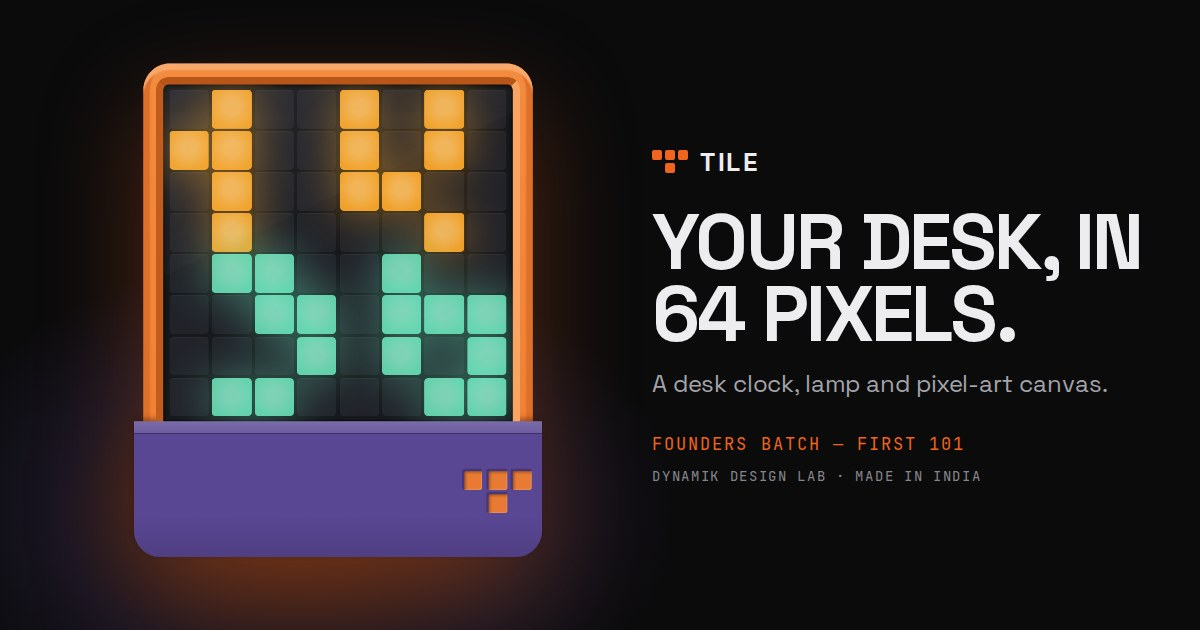
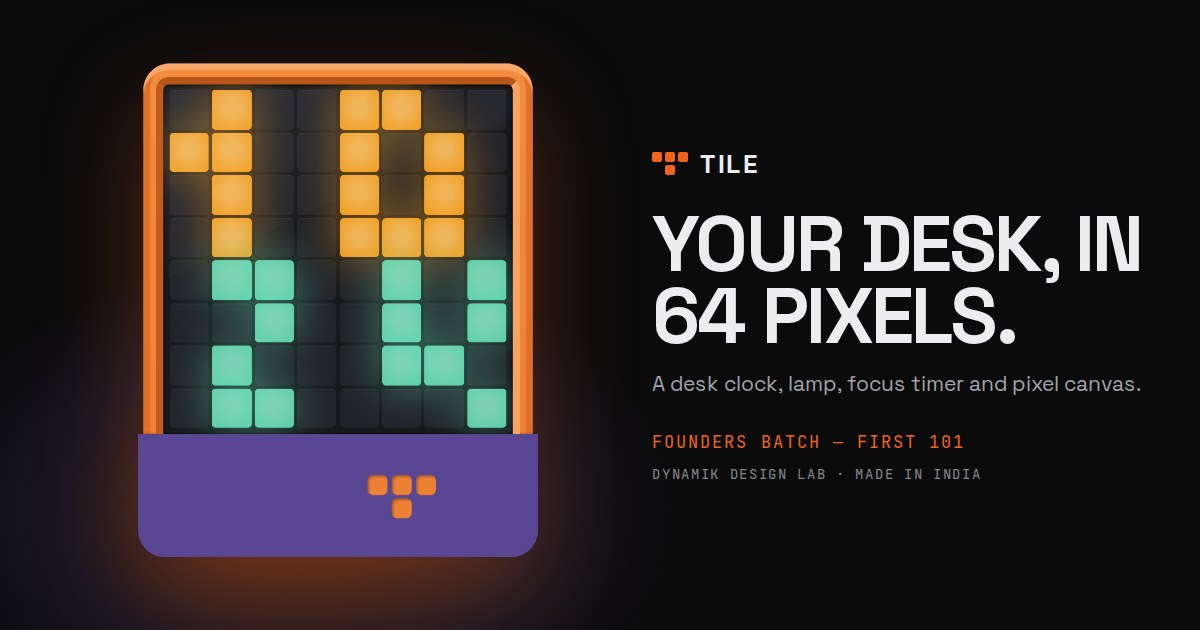
Tile: one colourway (orange with purple chin); calmer chin; new share image
- Remove Navy: swatches, chin state, waitlist colour dropdown; the API always sends
  colour 'Orange / Purple' so the sheet columns are unchanged
- Spec: Colour - orange with purple chin
- Chin ~25% of device height, ~1.25% proud per side, flat matte purple with no ledge,
  gradient or bevel, very soft shadow onto the orange sides
- Tile mark: rounded pockets (25% radius), subtle inner shadow, vertically centred,
  right margin 1.5x its width
- Share image: 10:24 on the device, new subline

Claude-Session: https://claude.ai/code/session_01EoVtejs2yt3x5amj4Ynkzg

diff --git a/src/app/products/tile/TileDevice.tsx b/src/app/products/tile/TileDevice.tsx
@@ -9,23 +9,17 @@ export interface Lit {
   level?: number // 0–1; how strongly the pixel shows through the diffuser (default 1)
 }
 
-export type Chin = 'purple' | 'navy'
-
-// Matte chin colours, muted so they sit with the orange body.
-export const CHINS: Record<Chin, { label: string; color: string; wall: string }> = {
-  purple: { label: 'Purple', color: '#5A4794', wall: '#45367A' },
-  navy: { label: 'Navy', color: '#26334F', wall: '#1B253C' },
-}
+// Matte purple chin: the one colourway.
+const CHIN_COLOR = '#5A4794'
 
 // Geometry, as percentages of the container (1212 × 1298) so the device keeps its size everywhere.
-// Radii, chamfers and the chin ledge use container-width units (cqw), so they scale with the device.
+// Radii and chamfers use container-width units (cqw), so they scale with the device.
 const R = '5.5cqw' // outer corner radius: top of the orange body, bottom of the chin
-const ORANGE_BOX = { left: '9.74%', width: '80.53%', top: '1.39%', height: '69.11%' } // straight bottom edge, hidden by the chin
-// The chin: ~27.5% of the front height, and 2.5% of the body width proud of the orange on each side.
-const CHIN_BOX = { left: '7.73%', width: '84.55%', top: '70.5%', height: '26.19%' }
-const LEDGE = '2.4cqw' // top face of the chin, ~3% of the body width
+const ORANGE_BOX = { left: '9.74%', width: '80.53%', top: '1.39%', height: '71.48%' } // straight bottom edge, meets the chin
+// The chin: ~25% of the device height, barely proud of the orange (~1.25% of the body width each side).
+const CHIN_BOX = { left: '8.73%', width: '82.54%', top: '72.87%', height: '23.82%' }
 // The diffuser opening runs straight down to the chin.
-const SCREEN = { left: '14.02%', top: '5.5%', width: '71.96%', height: '65%' }
+const SCREEN = { left: '14.02%', top: '5.5%', width: '71.96%', height: '67.37%' }
 const SCREEN_R = '1cqw' // ~18% of the outer radius, top corners only
 const BEVEL = '1.6cqw' // inner chamfer, ~6px at desktop size
 const CHAMFER = '1.45cqw' // outer chamfer on the orange, ~5–6px at desktop size
@@ -37,43 +31,34 @@ const ORANGE_STYLE: CSSProperties = {
   background: 'linear-gradient(180deg, #F48C40 0%, #F08235 100%)',
   boxShadow: `inset 0 ${CHAMFER} 0.3cqw -0.1cqw #F9A86C, inset ${CHAMFER} 0 0.3cqw -0.1cqw #DF7029, inset -${CHAMFER} 0 0.3cqw -0.1cqw #DF7029`,
 }
-// Flat matte chin: square at the top, rounded at the bottom, sitting proud of the face. Its shadow falls
-// up onto the orange sides just above where it sticks out.
+// Flat matte purple chin: no chamfer, gradient or sheen. Square at the top, rounded at the bottom, with a
+// very soft shadow where it meets the orange sides.
 const CHIN_STYLE: CSSProperties = {
   ...CHIN_BOX,
   borderRadius: `0 0 ${R} ${R}`,
-  backgroundImage: 'linear-gradient(180deg, rgba(0,0,0,0) 70%, rgba(0,0,0,0.12) 100%)',
-  boxShadow: '0 -0.5cqw 1.2cqw rgba(60,20,0,0.45)',
+  background: CHIN_COLOR,
+  boxShadow: '0 -0.2cqw 0.5cqw rgba(60,20,0,0.22)',
 }
-// The ledge along the top of the chin, lit from above, with a fine edge where it turns down into the face.
-const LEDGE_STYLE: CSSProperties = {
-  position: 'absolute',
-  left: 0,
-  right: 0,
-  top: 0,
-  height: LEDGE,
-  background: 'linear-gradient(180deg, rgba(255,255,255,0.20), rgba(255,255,255,0.12))',
-  boxShadow: '0 1px 0 rgba(0,0,0,0.30)',
-}
-// The Tile mark: ~17% of the chin width, right side, a little above the middle of the chin face.
-// Square s and gap g = 0.18s: width 3.36s; right margin 3g.
+// The Tile mark: three squares over one, ~17% of the chin width, centred vertically, set in from the right
+// by 1.5× its own width.
 const MARK: CSSProperties = {
   position: 'absolute',
-  right: '2.75%',
-  top: '35%',
+  right: '25.5%',
+  top: '50%',
+  transform: 'translateY(-50%)',
   width: '17%',
   display: 'grid',
   gridTemplateColumns: 'repeat(3, 1fr)',
-  columnGap: '5.4%',
-  rowGap: '5.4%',
+  columnGap: '6%',
+  rowGap: '6%',
 }
-// Each square is a pocket: chin-coloured walls on the top and left, a shadow into it, orange at the bottom.
-const markSquare = (wall: string): CSSProperties => ({
+// Each square is a soft pocket: rounded corners, orange fill, a subtle shadow inside it.
+const MARK_SQUARE: CSSProperties = {
   aspectRatio: '1',
-  borderRadius: '10%',
-  background: '#E87A33',
-  boxShadow: `inset 0.45cqw 0.45cqw 0 ${wall}, inset 0.7cqw 0.7cqw 0.6cqw rgba(0,0,0,0.38), inset -1px -1px 0 rgba(255,255,255,0.14)`,
-})
+  borderRadius: '25%',
+  background: '#EE8035',
+  boxShadow: 'inset 0.3cqw 0.35cqw 0.45cqw rgba(0,0,0,0.32)',
+}
 // The screen opening: a chamfer stepping down from the bezel (shadowed top and left, lit right), then the
 // dark diffuser, recessed with a thin inner shadow. No border at the bottom: the diffuser meets the chin.
 const OPENING_STYLE: CSSProperties = {
@@ -106,7 +91,6 @@ interface Interactive {
 
 interface Props {
   cells: (Lit | null)[]
-  chin?: Chin
   dim?: boolean
   glow?: number
   interactive?: Interactive
@@ -115,11 +99,10 @@ interface Props {
 
 export default function TileDevice({
   cells,
-  chin = 'purple',
   dim = false,
   glow = 14,
   interactive,
-  alt = 'Tile, a desk display with an 8 by 8 pixel screen, orange body and coloured chin',
+  alt = 'Tile, a desk display with an 8 by 8 pixel screen, orange body and purple chin',
 }: Props) {
   // Mouse paints on press (so drag-painting works); touch paints on tap so scrolling past doesn't.
   const lastPointer = useRef('mouse')
@@ -131,18 +114,10 @@ export default function TileDevice({
       style={{ aspectRatio: '1212 / 1298', containerType: 'inline-size' }}
     >
       <div aria-hidden="true" className="absolute" style={dim ? { ...ORANGE_STYLE, filter: DIM } : ORANGE_STYLE} />
-      <div
-        aria-hidden="true"
-        className="absolute motion-safe:transition-colors motion-safe:duration-300"
-        style={{ ...CHIN_STYLE, backgroundColor: CHINS[chin].color, ...(dim ? { filter: DIM } : null) }}
-      >
-        <div style={LEDGE_STYLE} />
+      <div aria-hidden="true" className="absolute" style={dim ? { ...CHIN_STYLE, filter: DIM } : CHIN_STYLE}>
         <div style={MARK}>
           {[0, 1, 2, 4].map((n) => (
-            <span
-              key={n}
-              style={{ ...markSquare(CHINS[chin].wall), gridColumn: (n % 3) + 1, gridRow: Math.floor(n / 3) + 1 }}
-            />
+            <span key={n} style={{ ...MARK_SQUARE, gridColumn: (n % 3) + 1, gridRow: Math.floor(n / 3) + 1 }} />
           ))}
         </div>
       </div>
@@ -195,37 +170,6 @@ export default function TileDevice({
           style={{ background: 'linear-gradient(155deg, rgba(255,255,255,0.07) 0%, rgba(255,255,255,0.02) 38%, rgba(255,255,255,0) 38.5%)' }}
         />
       </div>
-    </div>
-  )
-}
-
-// Swatches that switch the chin colour on every simulated Tile on the page.
-export function ChinSwatches({ value, onChange, className = '' }: { value: Chin; onChange: (c: Chin) => void; className?: string }) {
-  return (
-    <div role="group" aria-label="Chin colour" className={`inline-flex items-center gap-4 ${className}`}>
-      {(Object.keys(CHINS) as Chin[]).map((k) => {
-        const on = value === k
-        return (
-          <button
-            key={k}
-            type="button"
-            aria-pressed={on}
-            onClick={() => onChange(k)}
-            className="group inline-flex min-h-[44px] items-center gap-2 px-1 font-mono text-[11px] uppercase tracking-[0.12em] focus-visible:outline focus-visible:outline-2 focus-visible:outline-offset-2 focus-visible:outline-[#F0641E]"
-            style={{ color: on ? '#EDEDEF' : '#85858D' }}
-          >
-            <span
-              aria-hidden="true"
-              className="relative h-[18px] w-[18px] overflow-hidden rounded-full"
-              style={{
-                background: `linear-gradient(180deg, #F2843A 0 50%, ${CHINS[k].color} 50% 100%)`,
-                boxShadow: on ? '0 0 0 2px #0B0B0C, 0 0 0 3.5px #EDEDEF' : '0 0 0 1px #34343A',
-              }}
-            />
-            {CHINS[k].label}
-          </button>
-        )
-      })}
     </div>
   )
 }

diff --git a/src/app/products/tile/TileProduct.tsx b/src/app/products/tile/TileProduct.tsx
@@ -3,7 +3,7 @@
 import Image from 'next/image'
 import Link from 'next/link'
 import { useEffect, useRef, useState, type PointerEvent, type ReactNode, type RefObject } from 'react'
-import TileDevice, { ChinSwatches, type Chin, type Lit } from './TileDevice'
+import TileDevice, { type Lit } from './TileDevice'
 import TileNight from './TileNight'
 import TileWaitlist from './TileWaitlist'
 import {
@@ -265,8 +265,6 @@ function PriceLine() {
 export default function TileProduct({ photo }: { photo?: { src: string; alt: string } }) {
   const [mode, setMode] = useState<Mode>('clock')
   const [heroMode, setHeroMode] = useState<Mode>('clock')
-  // One chin colour for every simulated Tile on the page; it also pre-selects the waitlist colour.
-  const [chin, setChin] = useState<Chin>('purple')
   const [brush, setBrush] = useState(1)
   const clock = useLiveClock()
   const heroRef = useRef<HTMLDivElement>(null)
@@ -424,12 +422,12 @@ export default function TileProduct({ photo }: { photo?: { src: string; alt: str
           <div ref={heroRef} className="relative w-full drop-shadow-[0_50px_60px_rgba(240,100,30,0.28)]">
             {heroMode === 'clock' ? (
               <button type="button" onClick={showDate} aria-label="Tap Tile to show today’s date" className="block w-full cursor-pointer rounded-[8%] focus-visible:outline focus-visible:outline-2 focus-visible:outline-offset-4 focus-visible:outline-[#F0641E]">
-                <TileDevice cells={heroCells} chin={chin} glow={16} alt={HERO_ALT.clock} />
+                <TileDevice cells={heroCells} glow={16} alt={HERO_ALT.clock} />
               </button>
             ) : (
               <TileDevice
                 cells={heroCells}
-                chin={chin}
+               
                 interactive={heroMode === 'canvas' ? canvas : undefined}
                 glow={heroMode === 'lamp' ? 18 : 16}
                 alt={HERO_ALT[heroMode]}
@@ -437,11 +435,8 @@ export default function TileProduct({ photo }: { photo?: { src: string; alt: str
             )}
           </div>
         </div>
-        <div className="relative mt-5">
-          <ChinSwatches value={chin} onChange={setChin} />
-        </div>
 
-        <div role="group" aria-label="Mode" className="relative mx-auto mt-6 inline-flex rounded-full border border-[#26262B] bg-[#141416] p-1">
+        <div role="group" aria-label="Mode" className="relative mx-auto mt-10 inline-flex rounded-full border border-[#26262B] bg-[#141416] p-1">
           {MODES.map((m) => {
             const on = heroMode === m.id
             return (
@@ -580,10 +575,7 @@ export default function TileProduct({ photo }: { photo?: { src: string; alt: str
             </div>
             <div className="flex flex-[1_1_320px] justify-center">
               <div className="w-full max-w-[360px]">
-                <TileDevice cells={modeCells} chin={chin} glow={mode === 'lamp' ? 10 : 14} />
-                <div className="mt-4 flex justify-center">
-                  <ChinSwatches value={chin} onChange={setChin} />
-                </div>
+                <TileDevice cells={modeCells} glow={mode === 'lamp' ? 10 : 14} />
               </div>
             </div>
             <div className="min-w-0 flex-[1_1_280px]">
@@ -631,7 +623,7 @@ export default function TileProduct({ photo }: { photo?: { src: string; alt: str
           <h2 id="feat-h" className={`mb-14 max-w-[15ch] ${h2}`}>Small on the desk. Thoughtful inside.</h2>
 
           <div className="flex flex-wrap gap-4">
-            <TileNight clock={clock} chin={chin} />
+            <TileNight clock={clock} />
 
             <article className={`${card} flex-[1_1_340px]`}>
               <p className={`mb-3.5 ${mono}`}>Smart home</p>
@@ -719,7 +711,7 @@ export default function TileProduct({ photo }: { photo?: { src: string; alt: str
             style={{ background: 'radial-gradient(ellipse at center, rgba(240,100,30,0.18), transparent 65%)' }}
           />
           <div className="relative mx-auto mb-10 w-full max-w-[200px]">
-            <TileDevice cells={drewSomething ? toCells(paint) : amberClock(clock)} chin={chin} glow={10} />
+            <TileDevice cells={drewSomething ? toCells(paint) : amberClock(clock)} glow={10} />
           </div>
           <h2 id="buy-h" className="relative mb-8 text-[clamp(52px,9vw,128px)] font-bold uppercase leading-[0.9] tracking-[-0.04em]">Get Tile.</h2>
           <div className="relative mb-9">
@@ -730,7 +722,7 @@ export default function TileProduct({ photo }: { photo?: { src: string; alt: str
           </Link>
         </section>
       ) : (
-        <TileWaitlist chin={chin} device={<TileDevice cells={drewSomething ? toCells(paint) : amberClock(clock)} chin={chin} glow={10} />} />
+        <TileWaitlist device={<TileDevice cells={drewSomething ? toCells(paint) : amberClock(clock)} glow={10} />} />
       )}
 
       {/* Seller & product information (legal disclosures) */}

diff --git a/src/app/products/tile/TileWaitlist.tsx b/src/app/products/tile/TileWaitlist.tsx
@@ -4,8 +4,7 @@ import { useEffect, useRef, useState, type ReactNode } from 'react'
 import { useForm } from 'react-hook-form'
 import { zodResolver } from '@hookform/resolvers/zod'
 import WhatsAppIcon from '@/components/WhatsAppIcon'
-import type { Chin } from './TileDevice'
-import { chinColour, inr, salesOpenLabel, salesOpenLine, shareText, shipsFromLine, tileLaunch } from '@/data/tile-launch'
+import { inr, salesOpenLabel, salesOpenLine, shareText, shipsFromLine, tileLaunch } from '@/data/tile-launch'
 import { waitlistSchema, type WaitlistInput } from '@/data/tile-waitlist-schema'
 
 type Status = 'idle' | 'submitting' | 'success' | 'duplicate' | 'error'
@@ -61,7 +60,7 @@ function SpotsCounter() {
   )
 }
 
-export default function TileWaitlist({ device, chin }: { device: ReactNode; chin: Chin }) {
+export default function TileWaitlist({ device }: { device: ReactNode }) {
   const [status, setStatus] = useState<Status>('idle')
   const [message, setMessage] = useState('')
   const {
@@ -69,23 +68,12 @@ export default function TileWaitlist({ device, chin }: { device: ReactNode; chin
     handleSubmit,
     setError,
     getValues,
-    setValue,
     formState: { errors },
   } = useForm<WaitlistInput>({
     resolver: zodResolver(waitlistSchema),
-    defaultValues: { colour: chinColour[chin], mode: '', website: '' },
+    defaultValues: { mode: '', website: '' },
   })
 
-  // The chin swatches pre-select the colour, until the visitor picks one here by hand.
-  const colourPicked = useRef(false)
-  useEffect(() => {
-    if (!colourPicked.current) setValue('colour', chinColour[chin])
-  }, [chin, setValue])
-  const colourField = register('colour', {
-    onChange: () => {
-      colourPicked.current = true
-    },
-  })
 
   const submit = async (values: WaitlistInput) => {
     setStatus('submitting')
@@ -172,15 +160,6 @@ export default function TileWaitlist({ device, chin }: { device: ReactNode; chin
               <label htmlFor="wl-city" className={label}>City</label>
               <input id="wl-city" autoComplete="address-level2" className={input} placeholder="Your city" {...register('city')} />
               {errors.city && <p className={errorText}>{errors.city.message}</p>}
-            </div>
-            <div>
-              <label htmlFor="wl-colour" className={label}>Colour</label>
-              <select id="wl-colour" className={`${input} [&>option]:bg-[#141416]`} {...colourField}>
-                {tileLaunch.colours.map((c) => (
-                  <option key={c} value={c}>{c}</option>
-                ))}
-              </select>
-              {errors.colour && <p className={errorText}>{errors.colour.message}</p>}
             </div>
             <div>
               <label htmlFor="wl-mode" className={label}>Which mode would you use most?</label>

diff --git a/src/app/products/tile/TileNight.tsx b/src/app/products/tile/TileNight.tsx
@@ -1,7 +1,7 @@
 'use client'
 
 import { useEffect, useState } from 'react'
-import TileDevice, { type Chin } from './TileDevice'
+import TileDevice from './TileDevice'
 import { AMBER_HOUR, AMBER_MIN, led, type Cells } from './tileSim'
 
 // Firmware defaults: day 20%, night 5%, night 22:00–07:00, warm digits off.
@@ -22,7 +22,7 @@ const label = 'flex items-baseline justify-between font-mono text-[11px] upperca
 const select =
   'mt-2 w-full rounded-full border border-[#34343A] bg-[#0B0B0C] px-4 py-2.5 font-mono text-[13px] text-[#EDEDEF] focus:border-[#F0641E] focus:outline-none'
 
-export default function TileNight({ clock, chin }: { clock: number[]; chin: Chin }) {
+export default function TileNight({ clock }: { clock: number[] }) {
   const [day, setDay] = useState(DEFAULTS.day)
   const [night, setNight] = useState(DEFAULTS.night)
   const [start, setStart] = useState(DEFAULTS.start)
@@ -151,7 +151,6 @@ export default function TileNight({ clock, chin }: { clock: number[]; chin: Chin
         <div className="relative w-full max-w-[220px]">
           <TileDevice
             cells={cells}
-            chin={chin}
             dim={isNight}
             glow={isNight ? 8 : 12}
             alt={isNight ? `Tile at night, ${night}% brightness` : `Tile by day, ${day}% brightness`}

diff --git a/src/data/tile-launch.ts b/src/data/tile-launch.ts
@@ -10,12 +10,9 @@ export const tileLaunch = {
   shipStartDate: '2026-10-23', // founders batch dispatch begins
   foundersDispatchBy: '2026-10-31', // all founders batch orders dispatched by
   showSpotsCounter: false, // true → shows the real signup count from the Apps Script
-  colours: ['Orange / Purple', 'Orange / Navy'], // first is the default
+  colour: 'Orange / Purple', // the one colourway; sent with every waitlist signup
   modes: ['Clock', 'Lamp', 'Canvas', 'Focus'],
 }
-
-// Waitlist colour for each chin swatch on the page
-export const chinColour = { purple: 'Orange / Purple', navy: 'Orange / Navy' } as const
 
 export const TILE_URL = 'https://www.dynamikdesignlab.in/products/tile'
 export const TILE_SHARE_URL = `${TILE_URL}?ref=share`

diff --git a/src/data/tile-waitlist-schema.ts b/src/data/tile-waitlist-schema.ts
@@ -18,7 +18,6 @@ export const waitlistSchema = z.object({
     .trim()
     .refine((v) => normaliseWhatsapp(v) !== null, 'Enter a 10-digit Indian mobile number (+91 optional)'),
   city: z.string().trim().min(2, 'Please enter your city').max(60),
-  colour: z.string().refine((v) => tileLaunch.colours.includes(v), 'Please choose a colour'),
   mode: z.string().refine((v) => tileLaunch.modes.includes(v), 'Please choose a mode'),
   consent: z.literal(true, { errorMap: () => ({ message: 'Please tick to get launch updates' }) }),
   website: z.string().max(0).optional(), // honeypot — must stay empty

diff --git a/src/data/tile.ts b/src/data/tile.ts
@@ -14,7 +14,7 @@ export const TILE_SPECS = [
   { k: 'Size', v: '[W × H × D] mm, [WEIGHT] g' }, // TODO
   { k: 'In the box', v: 'Tile, USB-C cable, quick start card [CONFIRM]' }, // TODO
   { k: 'Body', v: 'PETG, matte finish' },
-  { k: 'Colours', v: 'Orange with purple or navy chin' },
+  { k: 'Colour', v: 'Orange with purple chin' },
   { k: 'Made in', v: 'India' },
 ]
 

diff --git a/src/app/api/tile-waitlist/route.ts b/src/app/api/tile-waitlist/route.ts
@@ -106,7 +106,7 @@ export async function POST(req: Request) {
     email: d.email,
     whatsapp: normaliseWhatsapp(d.whatsapp)!,
     city: d.city,
-    colour: d.colour,
+    colour: tileLaunch.colour, // fixed: one colourway, so the sheet's Colour column stays filled
     mode: d.mode,
     consent: true,
     referrer: (d.referrer || 'direct').slice(0, 300),
